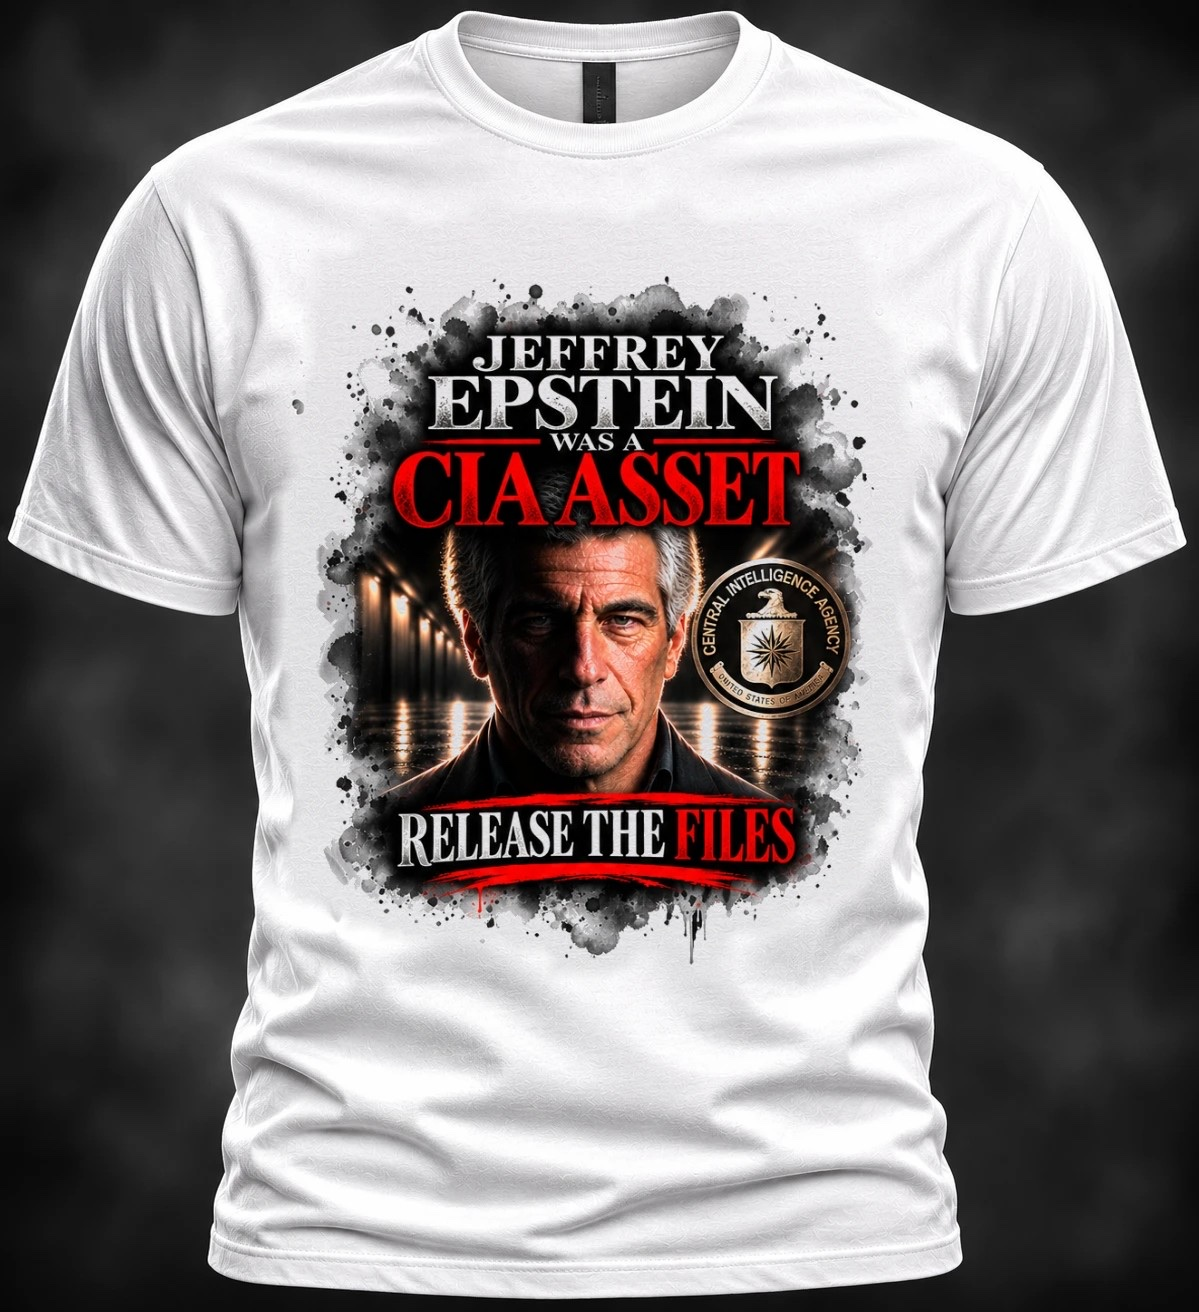
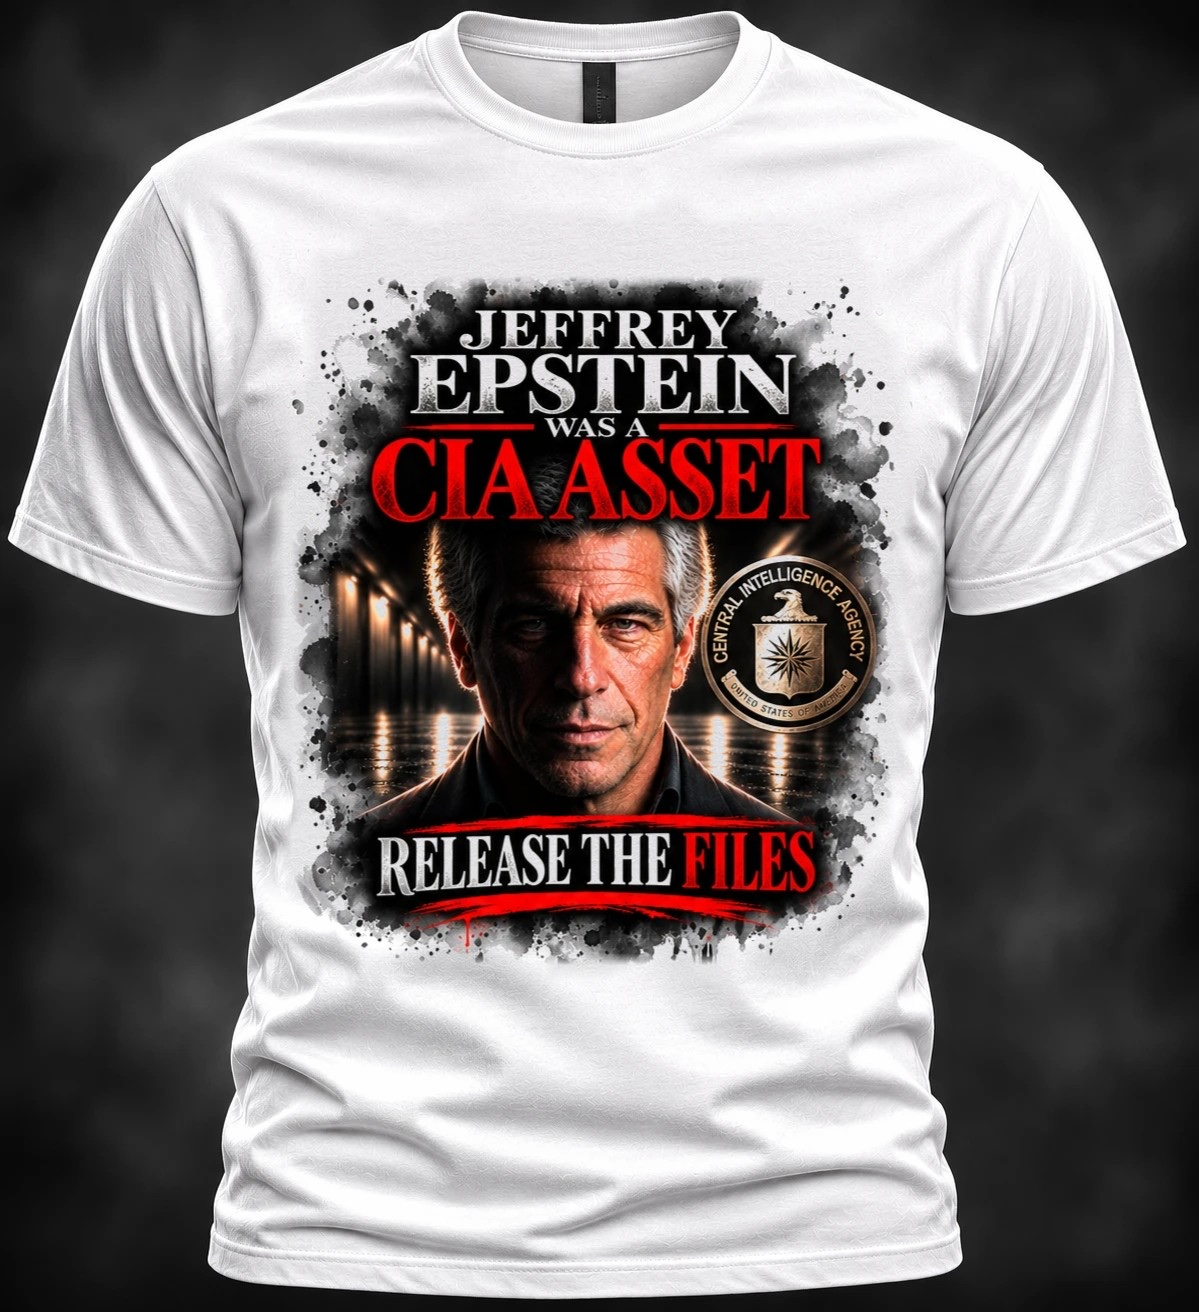
Shirt photos for the trimmed design (Jason: "Yes, trim it"): the outer smoke above JEFFREY and part of the drips are trimmed (faded, never a hard edge), so the face and lettering print at the size of Jason's examples on the unisex tee (size L 14.6 in black, 15.0 in white) and at 92 % on the women's 

Changed region(s): [[0.2469, 0.1875, 0.7406, 0.75]]

diff --git a/assets/merch.js b/assets/merch.js
@@ -60,10 +60,12 @@
   // DELIVER ... MUST ABSOLUTELY REPRESENT PRECISELY WHAT WE ARE REPRESENTING"): Jason's own four example photos. Each shirt now
   // prints the design taken from his photo of that shirt; in each photo the design is re-placed at the size and position the
   // printer really prints it on size L (width and top below the collar, as shares of the chest, from Printify's render of the
-  // real product), the shirt where it used to reach filled with that shirt's own fabric. Built in the scratchpad art lab
+  // real product), the shirt where it used to reach filled with that shirt's own fabric. Since v4 (Jason: "Yes, trim it") the
+  // design's outer smoke and drips are trimmed so its face and lettering print at his examples' own size on the unisex tee
+  // (92 % on the women's, the most its printers allow). Built in the scratchpad art lab
   // (extract.html → the print files, truesize.html → these photos); rebuild them whenever the art, the printer or the
   // placement changes.
-  const SHOTS = { NL3600: { black: 'assets/shirts/unisex-black-L.jpg?v=3', white: 'assets/shirts/unisex-white-L.jpg?v=3' }, BC6004: { black: 'assets/shirts/womens-black-L.jpg?v=3', white: 'assets/shirts/womens-white-L.jpg?v=3' } };
+  const SHOTS = { NL3600: { black: 'assets/shirts/unisex-black-L.jpg?v=4', white: 'assets/shirts/unisex-white-L.jpg?v=4' }, BC6004: { black: 'assets/shirts/womens-black-L.jpg?v=4', white: 'assets/shirts/womens-white-L.jpg?v=4' } };
   const SHOWN = 'L';
   const photoOf = (code, color, fallback) => SHOTS[code]?.[color] || fallback || null;
   const inches = (n) => `${Number(n).toFixed(1)}\u2033`;

diff --git a/index.html b/index.html
@@ -948,6 +948,6 @@
 </dialog>
 <div class="toast" id="toast" role="status" aria-live="polite"></div>
 <script src="assets/site.js?v=102" defer></script>
-<script src="assets/merch.js?v=4" defer></script>
+<script src="assets/merch.js?v=5" defer></script>
 </body>
 </html>
